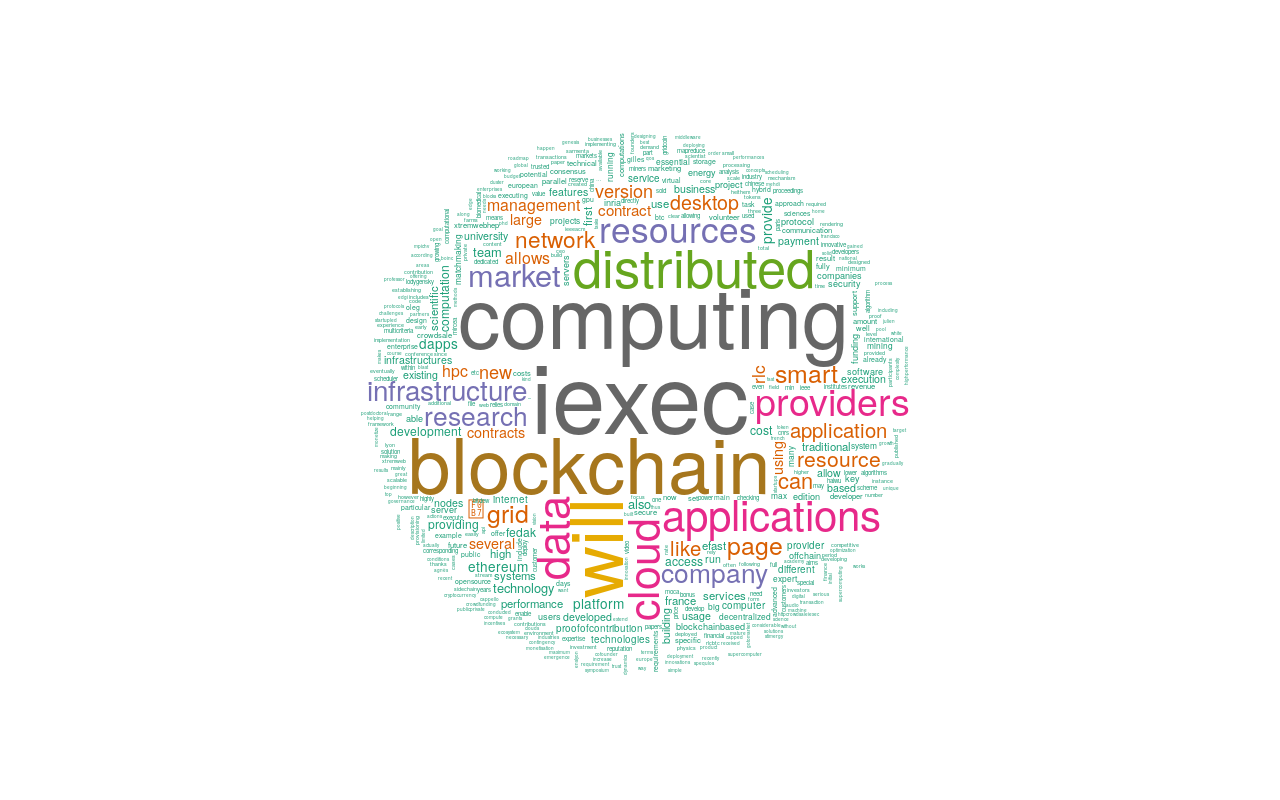
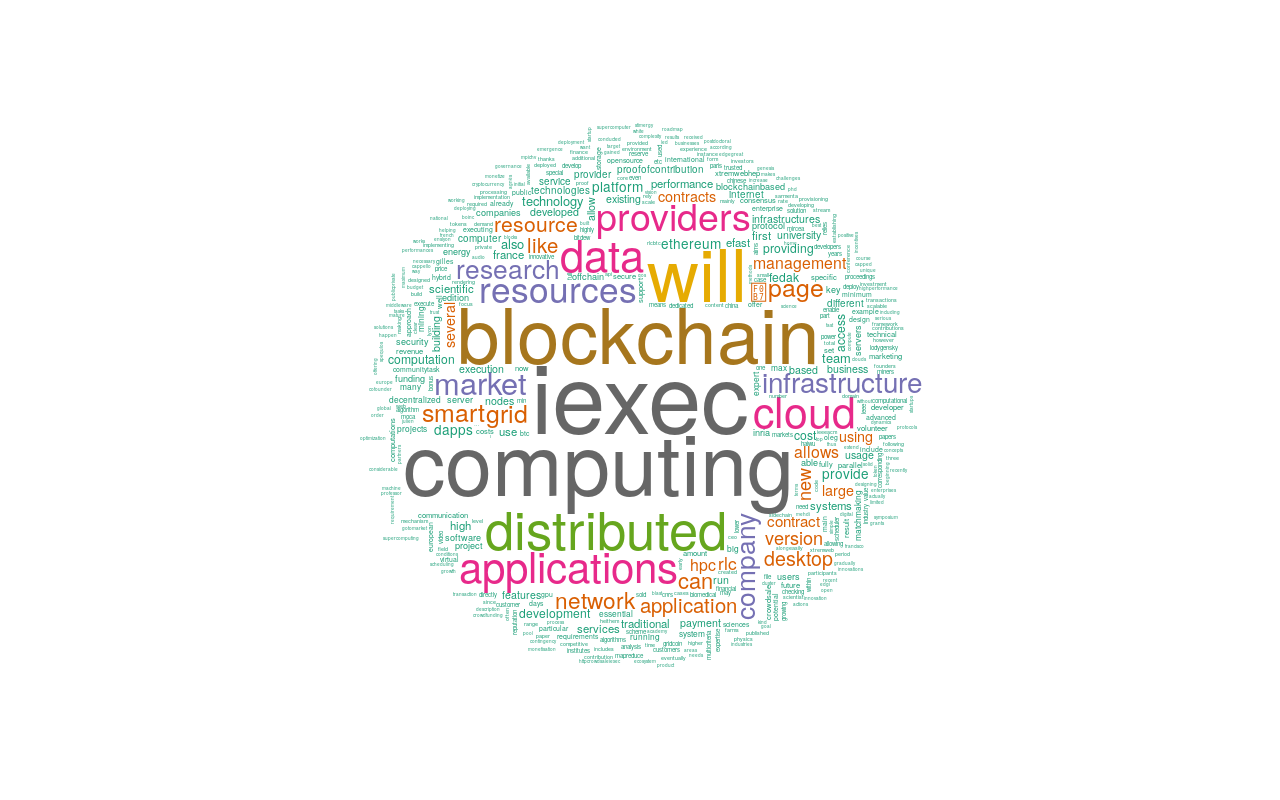
test OK on ropsten. add result and tx reference

Changed region(s): [[0.2812, 0.1562, 0.7188, 0.8438]]

diff --git a/README.md b/README.md
@@ -15,7 +15,7 @@ Those 2 inputs will be packed into [iExecWordcloudInputs.zip](./apps/iExecWordcl
 
 ##  Result
 
-You can see the wordcloud result of the iExec Whitepaper : ![iExecWordcloud.png](./apps/iExecWordcloud.png)
+You can see the wordcloud result of the iExec Whitepaper !!! . It was generated by this [transaction](https://explorer.iex.ec/ropsten/tx/0x3c030ee382094014deb3b4ef0bf64b05d203403094abcf7d6cab36d26ed4cdd5) on ropsten  ![iExecWordcloud.png](./apps/iExecWordcloud.png)
 
 
 
